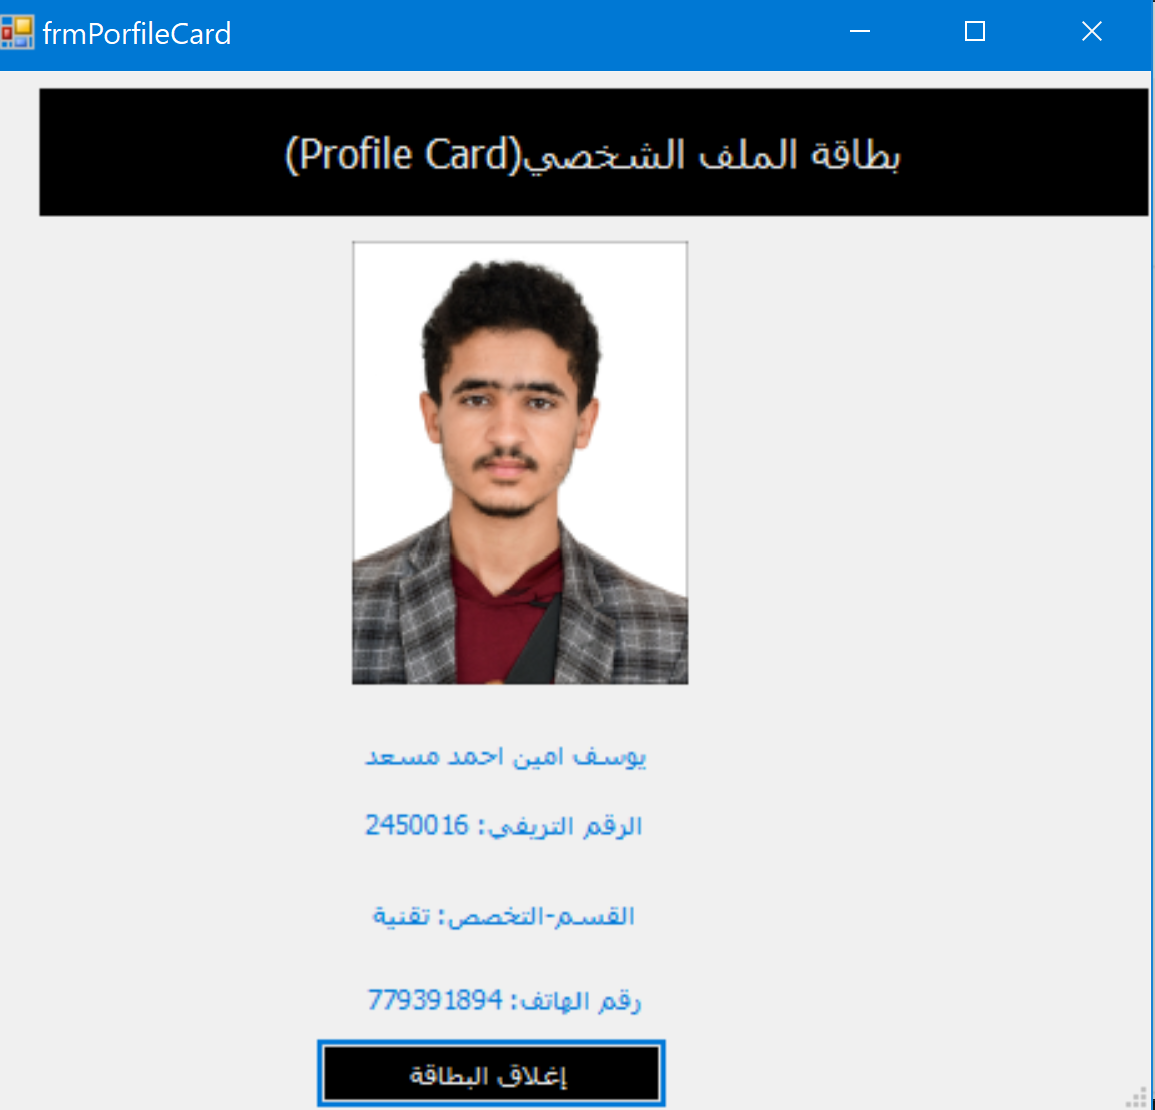
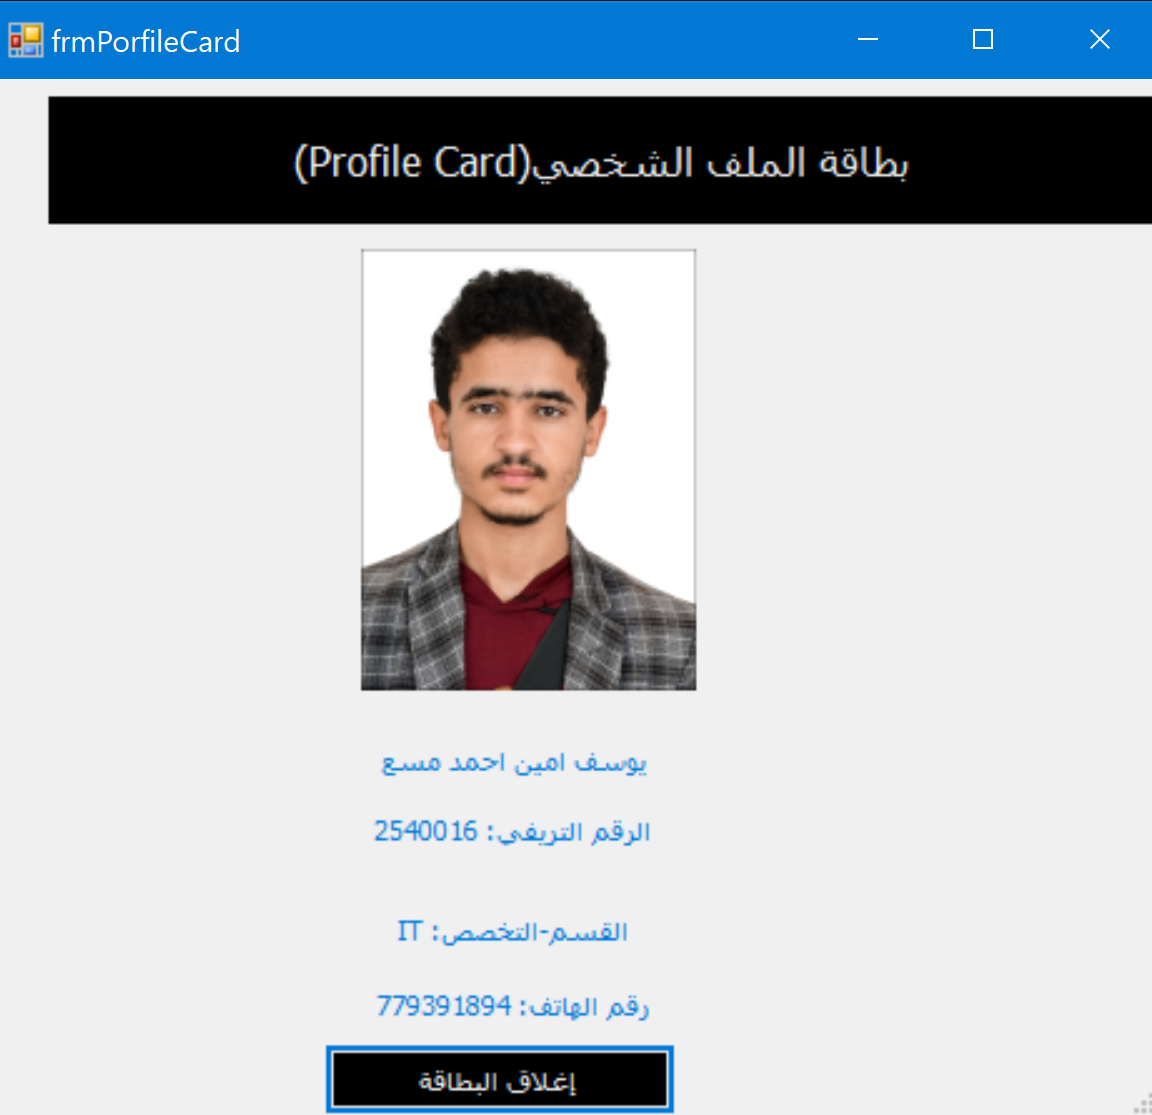
Update Screenshots folder

diff --git a/frmPorfileCard.Designer.cs b/frmPorfileCard.Designer.cs
@@ -68,11 +68,10 @@
             // 
             // lblDepartment
             // 
-            this.lblDepartment.AutoSize = true;
             this.lblDepartment.ForeColor = System.Drawing.SystemColors.Highlight;
-            this.lblDepartment.Location = new System.Drawing.Point(483, 820);
+            this.lblDepartment.Location = new System.Drawing.Point(349, 837);
             this.lblDepartment.Name = "lblDepartment";
-            this.lblDepartment.Size = new System.Drawing.Size(85, 33);
+            this.lblDepartment.Size = new System.Drawing.Size(357, 51);
             this.lblDepartment.TabIndex = 3;
             this.lblDepartment.Text = "label3";
             this.lblDepartment.TextAlign = System.Drawing.ContentAlignment.MiddleCenter;
@@ -80,7 +79,7 @@
             // lblPhoneNumber
             // 
             this.lblPhoneNumber.ForeColor = System.Drawing.SystemColors.Highlight;
-            this.lblPhoneNumber.Location = new System.Drawing.Point(349, 895);
+            this.lblPhoneNumber.Location = new System.Drawing.Point(349, 915);
             this.lblPhoneNumber.Name = "lblPhoneNumber";
             this.lblPhoneNumber.Size = new System.Drawing.Size(357, 51);
             this.lblPhoneNumber.TabIndex = 4;
@@ -130,7 +129,6 @@
             this.Load += new System.EventHandler(this.frmPorfileCard_Load);
             ((System.ComponentModel.ISupportInitialize)(this.pictureBox1)).EndInit();
             this.ResumeLayout(false);
-            this.PerformLayout();
 
         }
 
